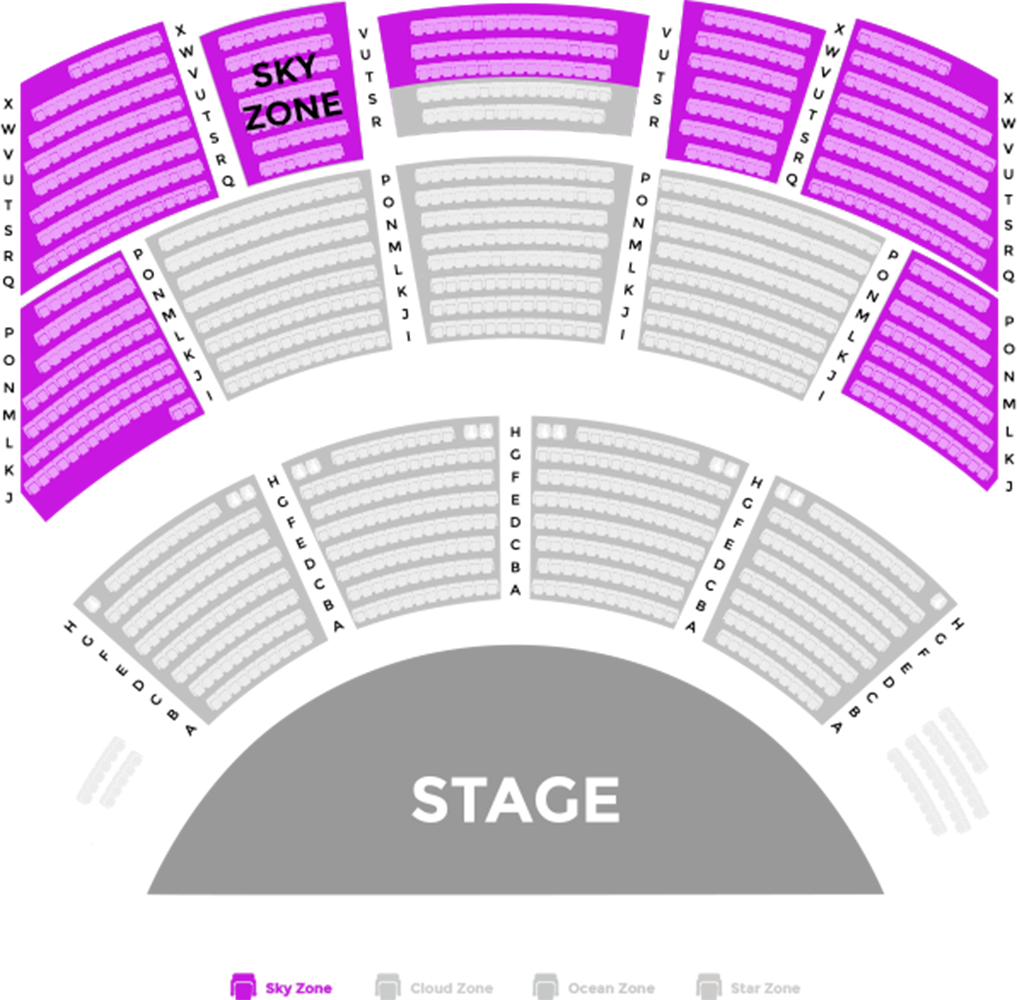
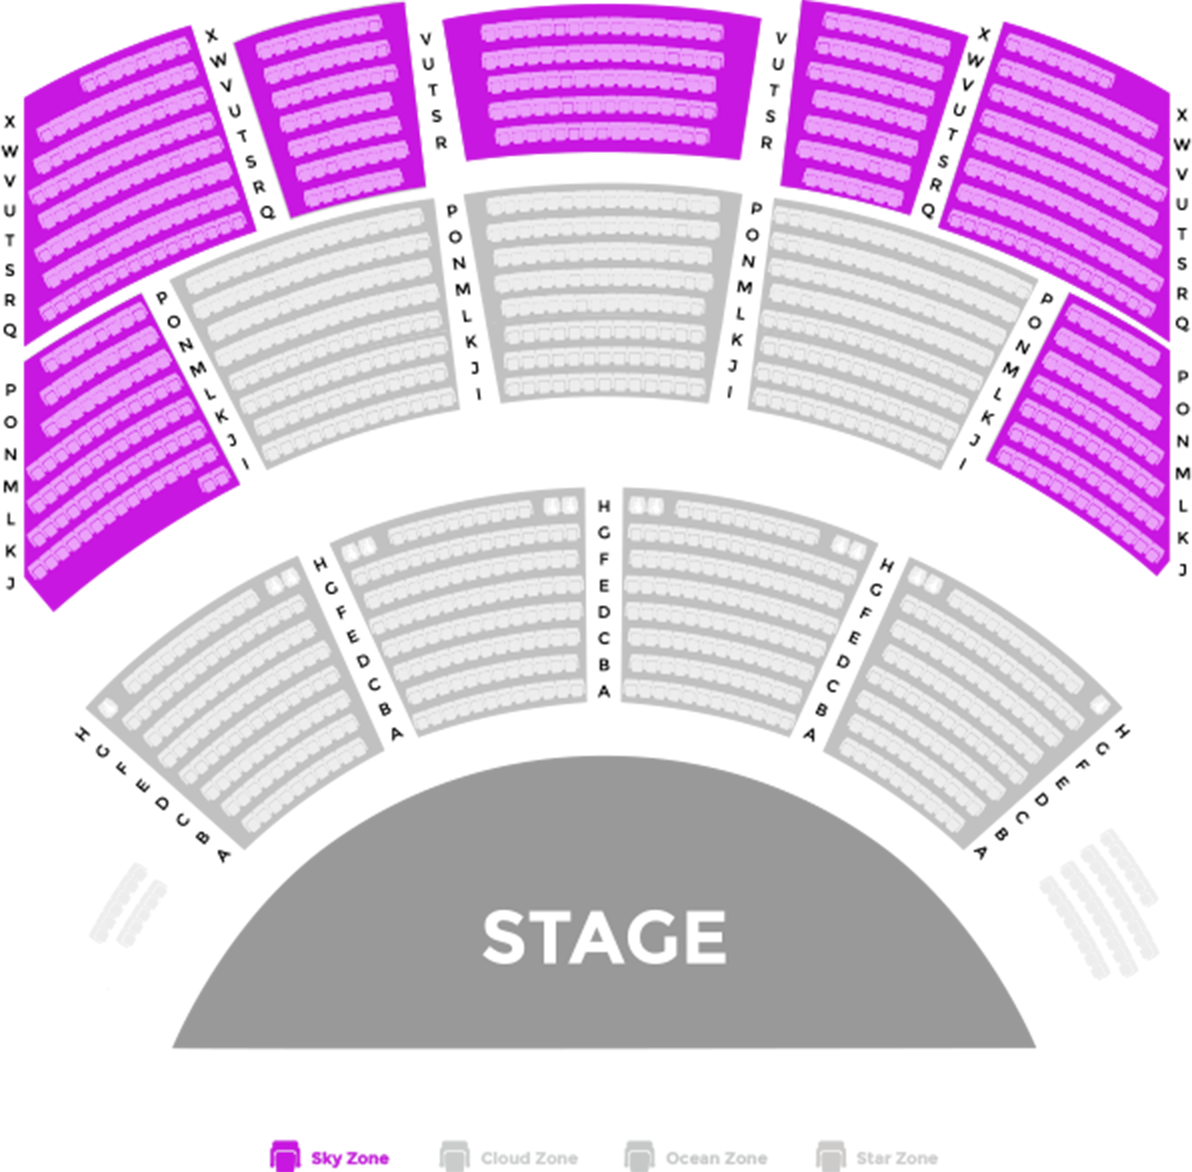
fix map

Changed region(s): [[0.3658, 0.062, 0.6401, 0.155], [0.2439, 0.031, 0.3353, 0.155]]

diff --git a/src/home/LocationSection.js b/src/home/LocationSection.js
@@ -8,6 +8,8 @@ const LocationSection = React.createClass({
       <div className={styles.container}>
         <h1>LOCATION & MAP</h1>
         <img src={require('../assets/images/dluck-map.png')} className={styles.map} />
+        <img src={require('../assets/images/beacon.png')} className={styles.beacon} />
+        <img src={require('../assets/images/google-map-dluck.png')} className={styles.googlemapdluck} />
         <div className={styles.mapLocationContainer}>
           <div className={styles.col} style={{width: '45%'}}>
             <h2>D'LUCK Cinematic Theatre</h2>
@@ -23,44 +25,97 @@ const LocationSection = React.createClass({
           </div>
         </div>
         <div className={styles.transportInformationContainer}>
-          <h2>TRANSPORT<br />INFORMATION</h2>
-          <div className={styles.col} style={{width: '60%'}}>
-            <h3>PERSONAL TRANSIT (รถยนตร์ส่วนตัว)</h3>
+          <h2>การเดินทาง<br />(TRANSPORTATION)</h2>
+          <div className={styles.col}>
+            <h3>การเดินทางโดยรถยนต์ส่วนบุคคล<br />(PERSONAL TRANSPORTATION)</h3>
             <div>
               <img src={require('../assets/images/person-icon.png')} />
-              การเดินทางโดยรถยนตร์ส่วนตัวเริ่มจาก ถ.สุขุมวิท พัทยา
+              <div style={{display: 'inline-block'}}>
+                <h4>ถนนสุขุมวิท (ทางหลวงหมายเลข 3)</h4>
+                <ul>
+                  <li>
+                    มาจากกรุงเทพฯ หรือ ชลบุรี<br />
+                    เมื่อเข้าเขตเมืองพัทยา ให้ขับตรงไปผ่านแยกพัทยาเหนือ,<br />
+                    แยกพัทยากลางและแยกพัทยาใต้ จนกระทั่งถึงแยกเทพประสิทธิ์<br />
+                    (แยกที่มี Outlet Mall Pattaya อยู่ทางด้านขวามือ)<br />
+                    จากนั้นให้เลี้ยวขวาเข้าสู่ถนนเทพประสิทธิ์ ขับตรงมาเรื่อยๆ<br />
+                    ราว 2 กม. จะเห็น Singha D’LUCK Cinematic Theatre<br />อยู่ทางด้านขวามือ
+                  </li>
+                  <li>
+                    มาจากระยอง หรือ สัตหีบ<br />
+                    ขับตามถนนสุขุมวิทมาเรื่อยๆจนกระทั่งถึงแยกเทพประสิทธิ์<br />
+                    (แยกที่มี Outlet Mall Pattaya อยู่ทางด้านซ้ายมือ / ก่อนแยก<br />
+                    พัทยาใต้) จากนั้นให้เลี้ยวซ้ายเข้าสู่ถนนเทพประสิทธิ์ ขับตรงมา<br />เรื่อยๆราว 2 กม. จะเห็น Singha D’LUCK Cinematic<br />
+                    Theatre อยู่ทางด้านขวามือ
+                  </li>
+                  <h4>มอเตอร์เวย์ (ทางหลวงพิเศษหมายเลข 7)</h4>
+                  <li>จากกรุงเทพฯ<br />
+                    ขับตรงมาเรื่อยจนถึงทางออก บริเวณพัทยาเหนือ<br />
+                    จากนั้นเลี้ยวซ้ายเข้าสู่ถนนสุขุมวิท แล้วขับตรงไปเรื่อยๆ<br />
+                    ผ่านแยกพัทยาเหนือ, แยกพัทยากลาง และแยกพัทยาใต้<br />จนกระทั่งถึงแยกเทพประสิทธิ์ (แยกที่มี Outlet Mall Pattaya<br />
+                    อยู่ทางด้านขวามือ) จากนั้นให้เลี้ยวขวาเข้าสู่ถนนเทพประสิทธิ์<br />
+                    ขับตรงมาเรื่อยๆ ราว 2 กม. จะเห็น Singha D’LUCKิ์<br />
+                    Cinematic Theatre อยู่ทางด้านขวามือ
+                  </li>
+                </ul>
+              </div>
             </div>
           </div>
-          <div className={styles.col} style={{width: '40%'}}>
-            <h3>PUBLIC TRANSIT (ขนส่งสาธารณะ)</h3>
+          <div className={styles.col} style={{width: 'auto', float: 'right'}}>
+            <h3>การเดินทางโดยขนส่งสาธารณะ<br />(PUBLIC TRANSPORTATION)</h3>
             <div>
               <img src={require('../assets/images/public-icon.png')} />
               <div style={{display: 'inline-block'}}>
-                <h4>1. From BKK (กทม.-พัทยา)</h4>
-                รถตู้
+                <h4>การเดินทางภายในเมืองพัทยา (Public Transportation)</h4>
                 <ul>
-                  <li>อนุสาวรีย์ชัยสมรภูมิ-พัทยา (เซ็นจูรี่)</li>
-                  <li>บางกระปิ-พัทยา</li>
-                  <li>รามคำแหง-พัทยา</li>
-                </ul>
-                รถบัส
-                <ul>
-                  <li>สถานีเอกมัย</li>
-                </ul>
-                <h4>2. From พัทยา</h4>
-                <ul>
-                  <li>สถานีขนส่ง</li>
-                  <li>พัทยาเหนือ / กลาง / ใต้</li>
+                  <li>
+                    ภายในบริเวณเมืองพัทยา<br />
+                    ท่านสามารถนั่งรถสองแถว, แท็กซี่, หรือบริการขนส่งสาธารณะ<br />
+                    ต่างๆ แล้วแจ้งว่ามายัง Singha D’LUCK Cinematic Theatre<br />
+                    ถ.เทพประสิทธิ์ (อยู่ตรงข้ามซ.เทพประสิทธิ์ 11 และ<br />
+                    ซ.เทพประสิทธิ์ 13)
+                  </li>
                 </ul>
               </div>
             </div>
             <div>
               <img src={require('../assets/images/plane-icon.png')} />
               <div style={{display: 'inline-block'}}>
-                <h4>3. From สนามบิน</h4>
+                <h4>การเดินทางจากสนามบิน (From Airport)</h4>
+                <h4>ท่าอากาศยานสุวรรณภูมิ (Suvarnabhumi Airport)</h4>
                 <ul>
-                  <li>สนามบินสุวรรณภูมิ</li>
-                  <li>สนามบินดอนเมือง</li>
+                  <li>
+                    รถโดยสารสาย 389 : ท่าอากาศยานสุวรรณภูมิ – พัทยา<br />
+                    สามารถขึ้นรถได้ที่อาคารผู้โดยสารชั้น 1 ประตู 8 (บริการ<br />
+                    07.00-21.00 น.) ลงที่ Singha D’LUCK Cinematic<br />
+                    Theatre ถ.เทพประสิทธิ์
+                  </li>
+                </ul>
+                <h4>ท่าอากาศยานดอนเมือง (Don Mueang Airport)</h4>
+                <ul>
+                  <li>
+                    Shuttle Bus ดอนเมือง – สุวรรณภูมิ<br />
+                    นั่งรถ Shuttle Bus (บริการฟรีสำหรับผู้มีตั๋วโดยสารเครื่องบิน)<br />
+                    ไปลงที่ท่าอากาศยานสุวรรณภูมิ เสร็จแล้วต่อรถโดยสาร<br />
+                    สาย 389 ลงที่ Singha D’LUCK Cinematic Theatre<br />
+                    ถ.เทพประสิทธิ์
+                  </li>
+                  <li>
+                    Airport Bus สาย A1 : ดอนเมือง – สถานีขนส่งสายเหนือ (หมอชิต)<br />
+                    นั่งรถสาย A1 มาลงที่สถานีขนส่งสายเหนือ (หมอชิต) เสร็จแล้ว<br />
+                    ต่อรถโดยสารปรับอากาศสายกรุงเทพฯ-พัทยา มาลงที่สถานี<br />
+                    รถโดยสารปรับอากาศ พัทยา – กรุงเทพฯ (บขส.)<br />
+                    จากนั้นต่อรถสาธารณะมาที่ ถ.เทพประสิทธิ์เพื่อลงที่<br />
+                    Singha D’LUCK Cinematic<br />Theatre
+                  </li>
+                  <li>
+                    Airport Bus สาย A2 : ดอนเมือง – อนุสาวรีย์ชัยสมรภูมิ<br />
+                    นั่งรถสาย A2 มาลงที่อนุสาวรีย์ชัยสมรภูมิ เสร็จแล้วไปที่<br />
+                    ท่ารถโรงภาพยนตร์ Century ต่อรถตู้สาย กรุงเทพฯ-พัทยา<br />
+                    มาลงที่พัทยา (ใกล้ที่สุดบริเวณ ถ.พัทยาใต้)<br />
+                    จากนั้นต่อรถสาธารณะมาที่ ถ.เทพประสิทธิ์เพื่อลงที่<br />
+                    Singha 	D’LUCK Cinematic Theatre
+                  </li>
                 </ul>
               </div>
             </div>

diff --git a/src/home/SeatingPlanSection.js b/src/home/SeatingPlanSection.js
@@ -1,4 +1,4 @@
-import '../assets/js/imageMap'
+require('../assets/js/imageMap')
 
 import React from 'react'
 import styles from './SeatingPlanSection.styl'
@@ -27,30 +27,30 @@ const SeatingPlanSection = React.createClass({
         <div className={styles.mapContainer}>
 
           <img src={require('../assets/images/sky-map.png')} style={{opacity: this.state.current === 'sky' ? 1 : 0}} />
-          <img src={require('../assets/images/star-map.png')} style={{opacity: this.state.current === 'star' ? 1 : 0}} />
+          <img src={require('../assets/images/star-map.jpg')} style={{opacity: this.state.current === 'star' ? 1 : 0}} />
           <img src={require('../assets/images/ocean-map.png')} style={{opacity: this.state.current === 'ocean' ? 1 : 0}} />
           <img src={require('../assets/images/cloud-map.png')} style={{opacity: this.state.current === 'cloud' ? 1 : 0}} />
           <map name="Map" id="Map">
             <img src={require('../assets/images/map.png')} useMap="#Map" style={{opacity: this.state.current === 'all' ? 1 : 0, zIndex: 10}} />
             <area
               shape="poly"
-              coords="23,80,171,15,207,27,360,4,651,13,710,2,832,22,951,42,1003,77,1005,198,1005,475,991,498,837,395,892,241,799,193,651,146,648,94,621,83,561,76,489,82,432,81,388,90,364,163,237,191,132,243,216,420,49,529,11,482"
-              onMouseOver={this.onChangeState('sky')}
-              />
-            <area
-              shape="poly"
-              coords="392,92,528,81,642,95,636,133,657,164,724,180,884,241,840,338,646,284,512,262,417,277,287,302,199,340,147,243,251,202,369,172"
-              onMouseOver={this.onChangeState('cloud')}
+              coords="77,143,129,248,6,313,6,29,217,4,381,8,476,13,592,37,588,297,486,236,524,141,388,94,229,89"
+              onClick={this.onChangeState('sky')}
             />
             <area
               shape="poly"
-              coords="202,347,285,309,383,286,516,271,611,282,742,313,833,342,807,403,642,355,507,339,320,371,229,404"
-              onMouseOver={this.onChangeState('star')}
+              coords="86,142,218,100,375,100,516,142,489,199,378,159,243,159,113,195"
+              onClick={this.onChangeState('cloud')}
             />
             <area
               shape="poly"
-              coords="66,601,260,465,498,410,630,421,757,460,884,531,967,615,826,730,701,654,540,614,369,640,207,737"
-              onMouseOver={this.onChangeState('ocean')}
+              coords="118,202,225,169,361,163,491,204,476,239,317,196,179,222,135,239"
+              onClick={this.onChangeState('star')}
+            />
+            <area
+              shape="poly"
+              coords="37,354,152,263,230,237,319,231,378,248,575,350,487,436,314,363,126,442"
+              onClick={this.onChangeState('ocean')}
             />
           </map>
         </div>
@@ -91,7 +91,9 @@ const SeatingPlanSection = React.createClass({
                (High Definition Projection Mapping) ได้อย่างชัดเจนที่สุด และยังเป็นจุดที่รับฟังระบบเสียงที่ได้รับการออกแบบอย่างมีประสิทธิภาพ ได้สมบูรณ์แบบที่สุดด้วย
             </p>
             <p>ราคา 4,000 บาท</p>
-            <button type='button'>BUY TICKET</button>
+            <a target='_blank' href='https://www.pandapass.asia/booking/external/5?ticketClassTypeName=Star Zone'>
+              <button type='button'>BUY TICKET</button>
+            </a>
           </div>
           {/* -----------------------------------------------------------------*/}
           <div className={styles.content} style={this.getStyleForCurrent('cloud')}>
@@ -102,7 +104,9 @@ const SeatingPlanSection = React.createClass({
               และเต็มอิ่มกับรายละเอียดต่างๆ บนเวที ทั้งระบบแสง เสียง และเทคนิคพิเศษมากมายอย่างเต็มอรรถรส
             </p>
             <p>ราคา 3,000 บาท</p>
-            <button type='button'>BUY TICKET</button>
+            <a target='_blank' href='https://www.pandapass.asia/booking/external/5?ticketClassTypeName=Cloud Zone'>
+              <button type='button'>BUY TICKET</button>
+            </a>
           </div>
           {/* -----------------------------------------------------------------*/}
           <div className={styles.content} style={this.getStyleForCurrent('ocean')}>
@@ -113,7 +117,9 @@ const SeatingPlanSection = React.createClass({
             ทำให้คุณได้สัมผัสประสบการณ์ การแสดงอย่างใกล้ชิดราวกับได้หลุดเข้าไปในโลกของการแสดงจริงๆ
             </p>
             <p>ราคา 3,000 บาท</p>
-            <button type='button'>BUY TICKET</button>
+            <a target='_blank' href='https://www.pandapass.asia/booking/external/5?ticketClassTypeName=Ocean Zone'>
+              <button type='button'>BUY TICKET</button>
+            </a>
           </div>
           {/* -----------------------------------------------------------------*/}
           <div className={styles.content} style={this.getStyleForCurrent('sky')}>
@@ -124,7 +130,9 @@ const SeatingPlanSection = React.createClass({
               สามารถมองเห็นรายละเอียดการแสดงที่เกิดขึ้นได้ทั่วทั้งหมด พร้อมกันนี้คุณจะได้ตื่นตาตื่นใจกับฉากหลังสุดอลังการไม่แพ้โซนอื่นๆ เช่นกัน
             </p>
             <p>ราคา 2,500 บาท</p>
-            <button type='button'>BUY TICKET</button>
+            <a target='_blank' href='https://www.pandapass.asia/booking/external/5?ticketClassTypeName=Sky Zone'>
+              <button type='button'>BUY TICKET</button>
+            </a>
           </div>
         </div>
       </div>

diff --git a/webpack.build.config.js b/webpack.build.config.js
@@ -34,7 +34,7 @@ module.exports = {
     new webpack.optimize.OccurrenceOrderPlugin(),
     new webpack.optimize.UglifyJsPlugin(),
     new webpack.optimize.DedupePlugin(),
-    new StaticSiteGeneratorPlugin('prerender', StaticData.paths, StaticData),
+    new StaticSiteGeneratorPlugin('prerender', StaticData.paths, StaticData, {window: {}}),
     new webpack.DefinePlugin({
       'process.env': {
         'NODE_ENV': JSON.stringify(process.env.NODE_ENV)

diff --git a/src/prerender.js b/src/prerender.js
@@ -1,8 +1,8 @@
+import { RouterContext, match } from 'react-router'
+
 import Helmet from 'react-helmet'
 import React from 'react'
 import { createMemoryHistory } from 'history'
-import { match, RouterContext } from 'react-router'
-
 import routes from './routes'
 
 // Exported static site renderer
